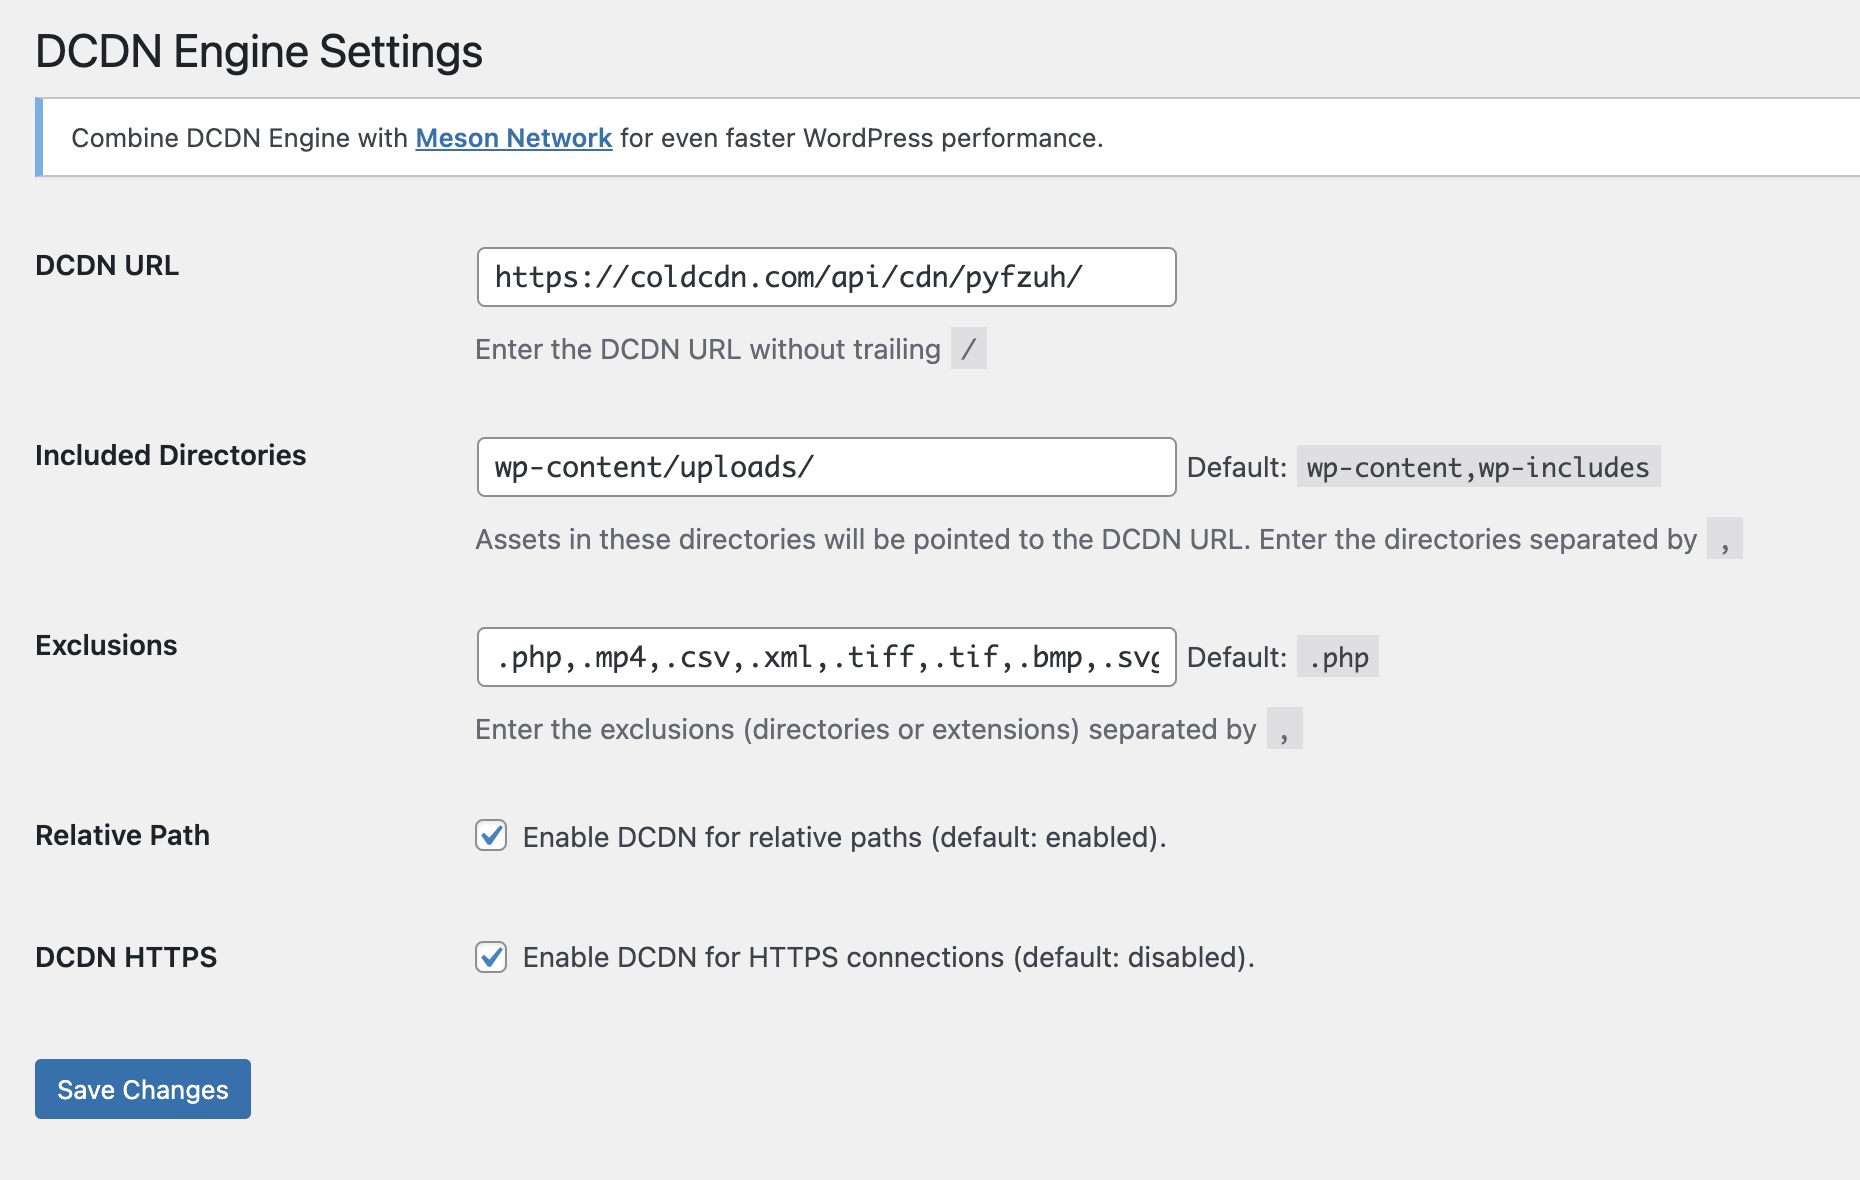
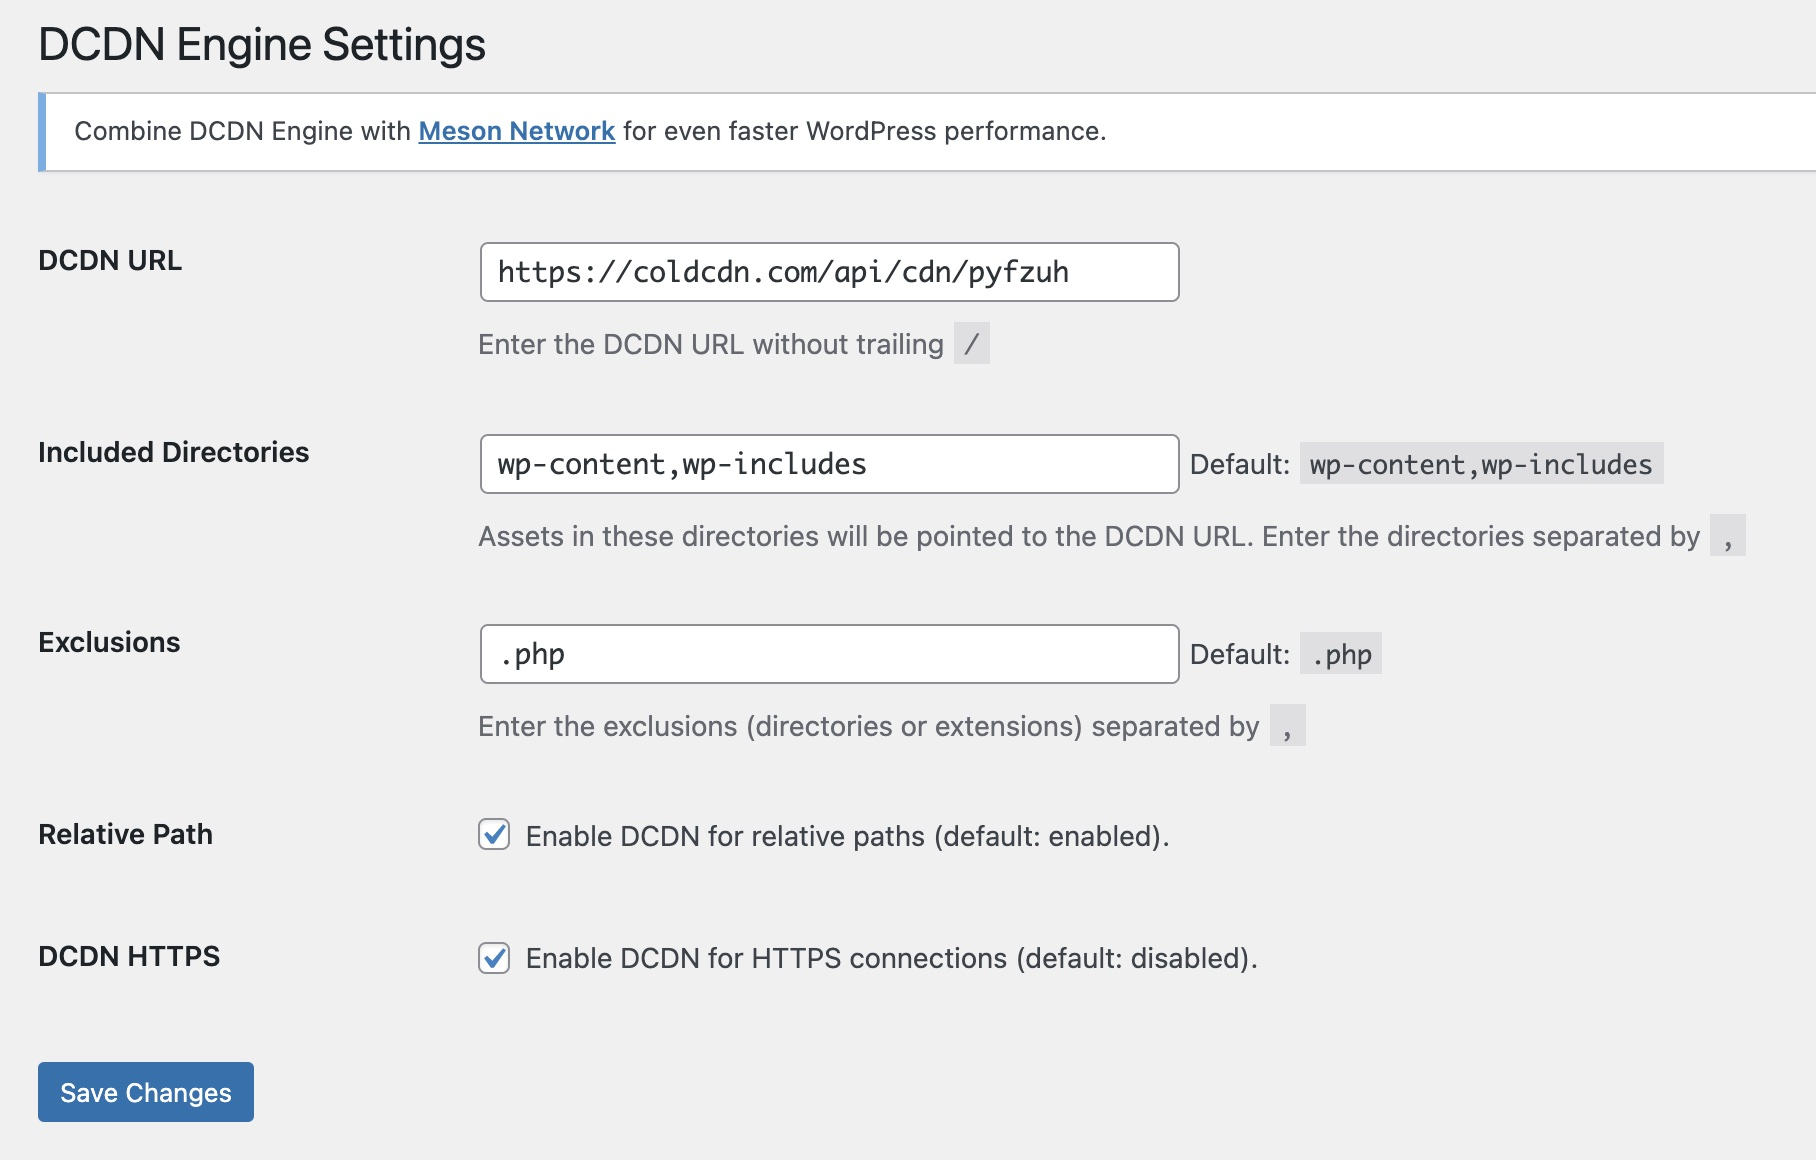
update README.md

diff --git a/README.md b/README.md
@@ -19,9 +19,9 @@ Simply integrate a Distributed Content Delivery Network (DCDN) into your WordPre
 ```
 DCDN URL: https://coldcdn.com/api/cdn/xxxxxx
 
-Included Directories: wp-content/uploads/
+Included Directories: wp-content,wp-includes
 
-Exclusions: .php,.mp4,.csv,.xml,.tiff,.tif,.bmp,.svg,.rtf, .txt,.html,.htm,.css,.js,.ico,.otf,.ttf,.woff
+Exclusions: .php
 ```
 
 ### Demo
